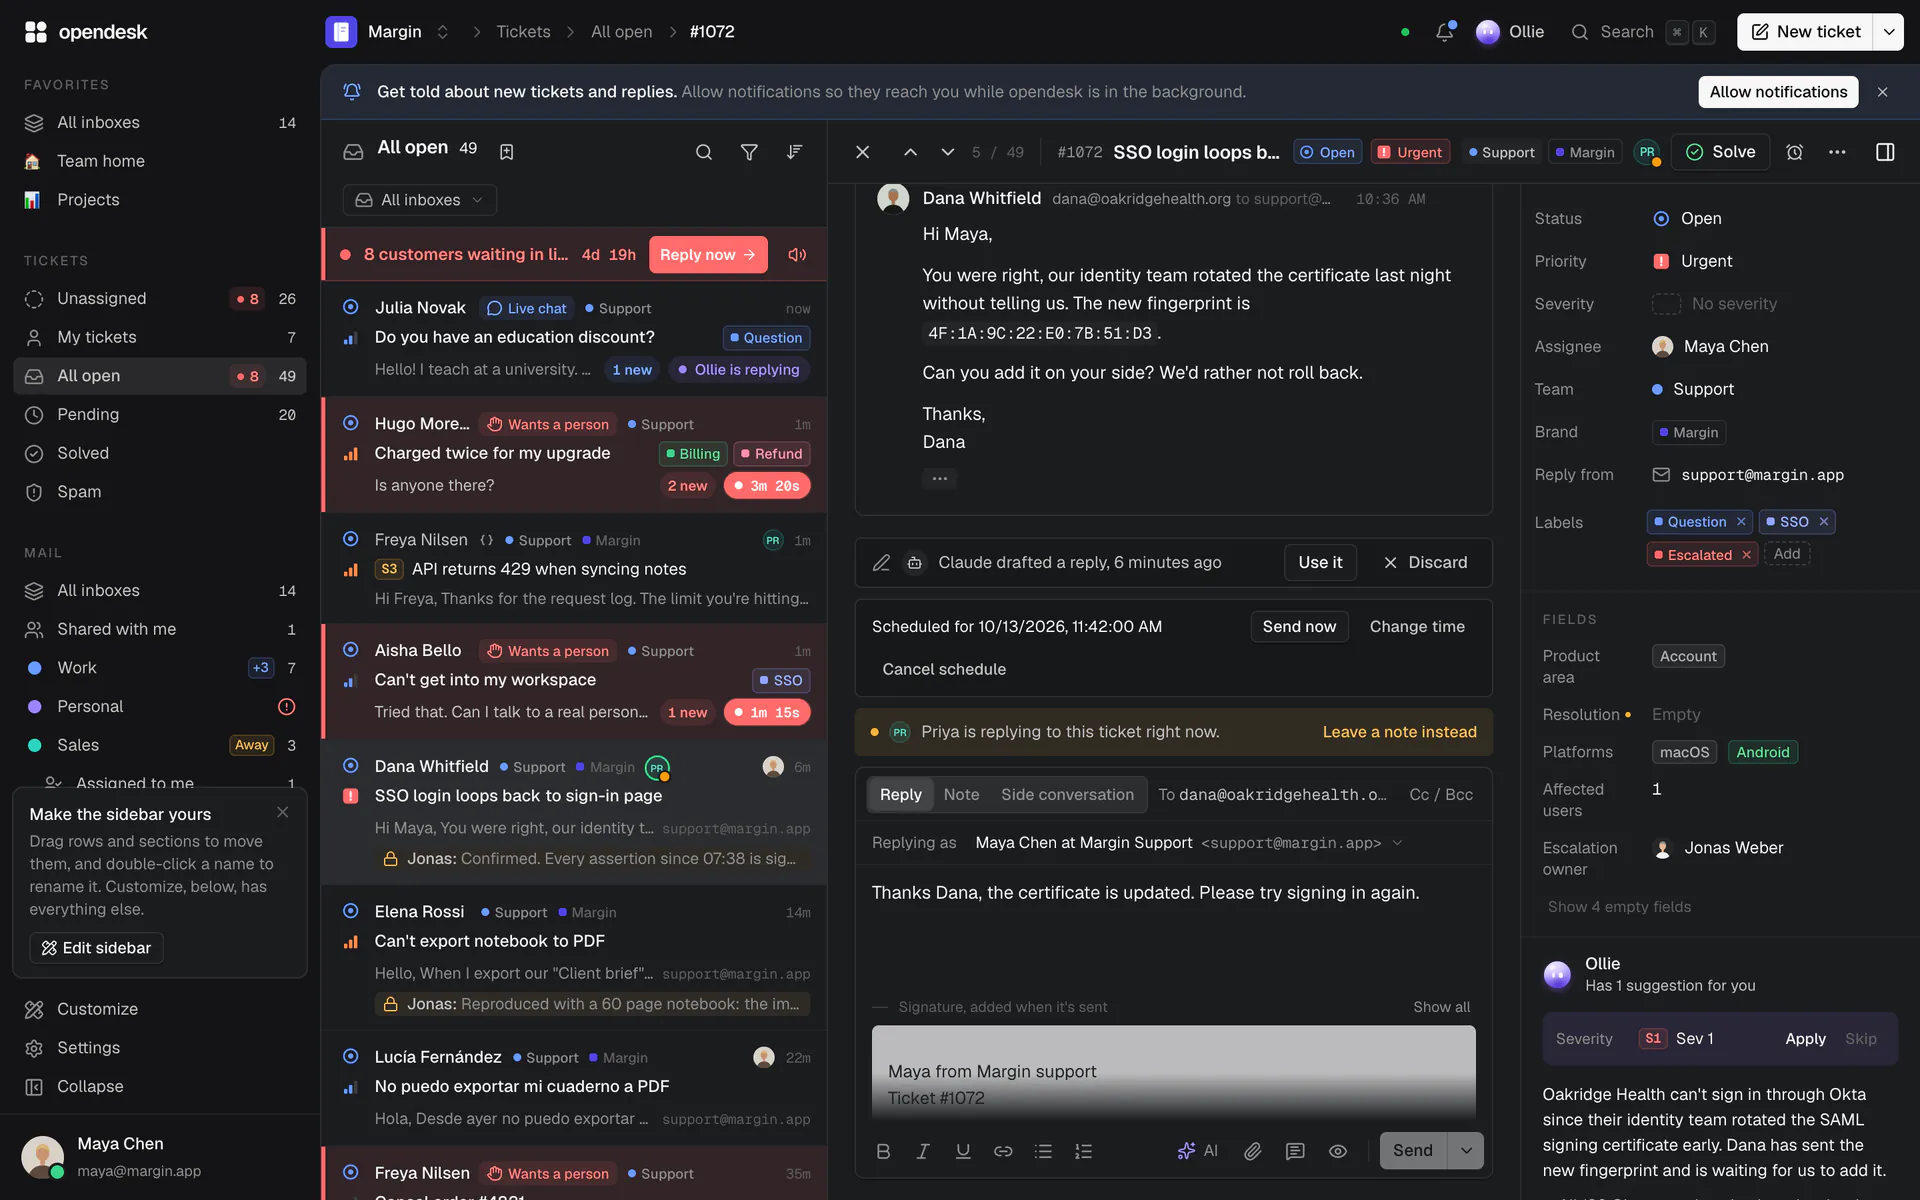
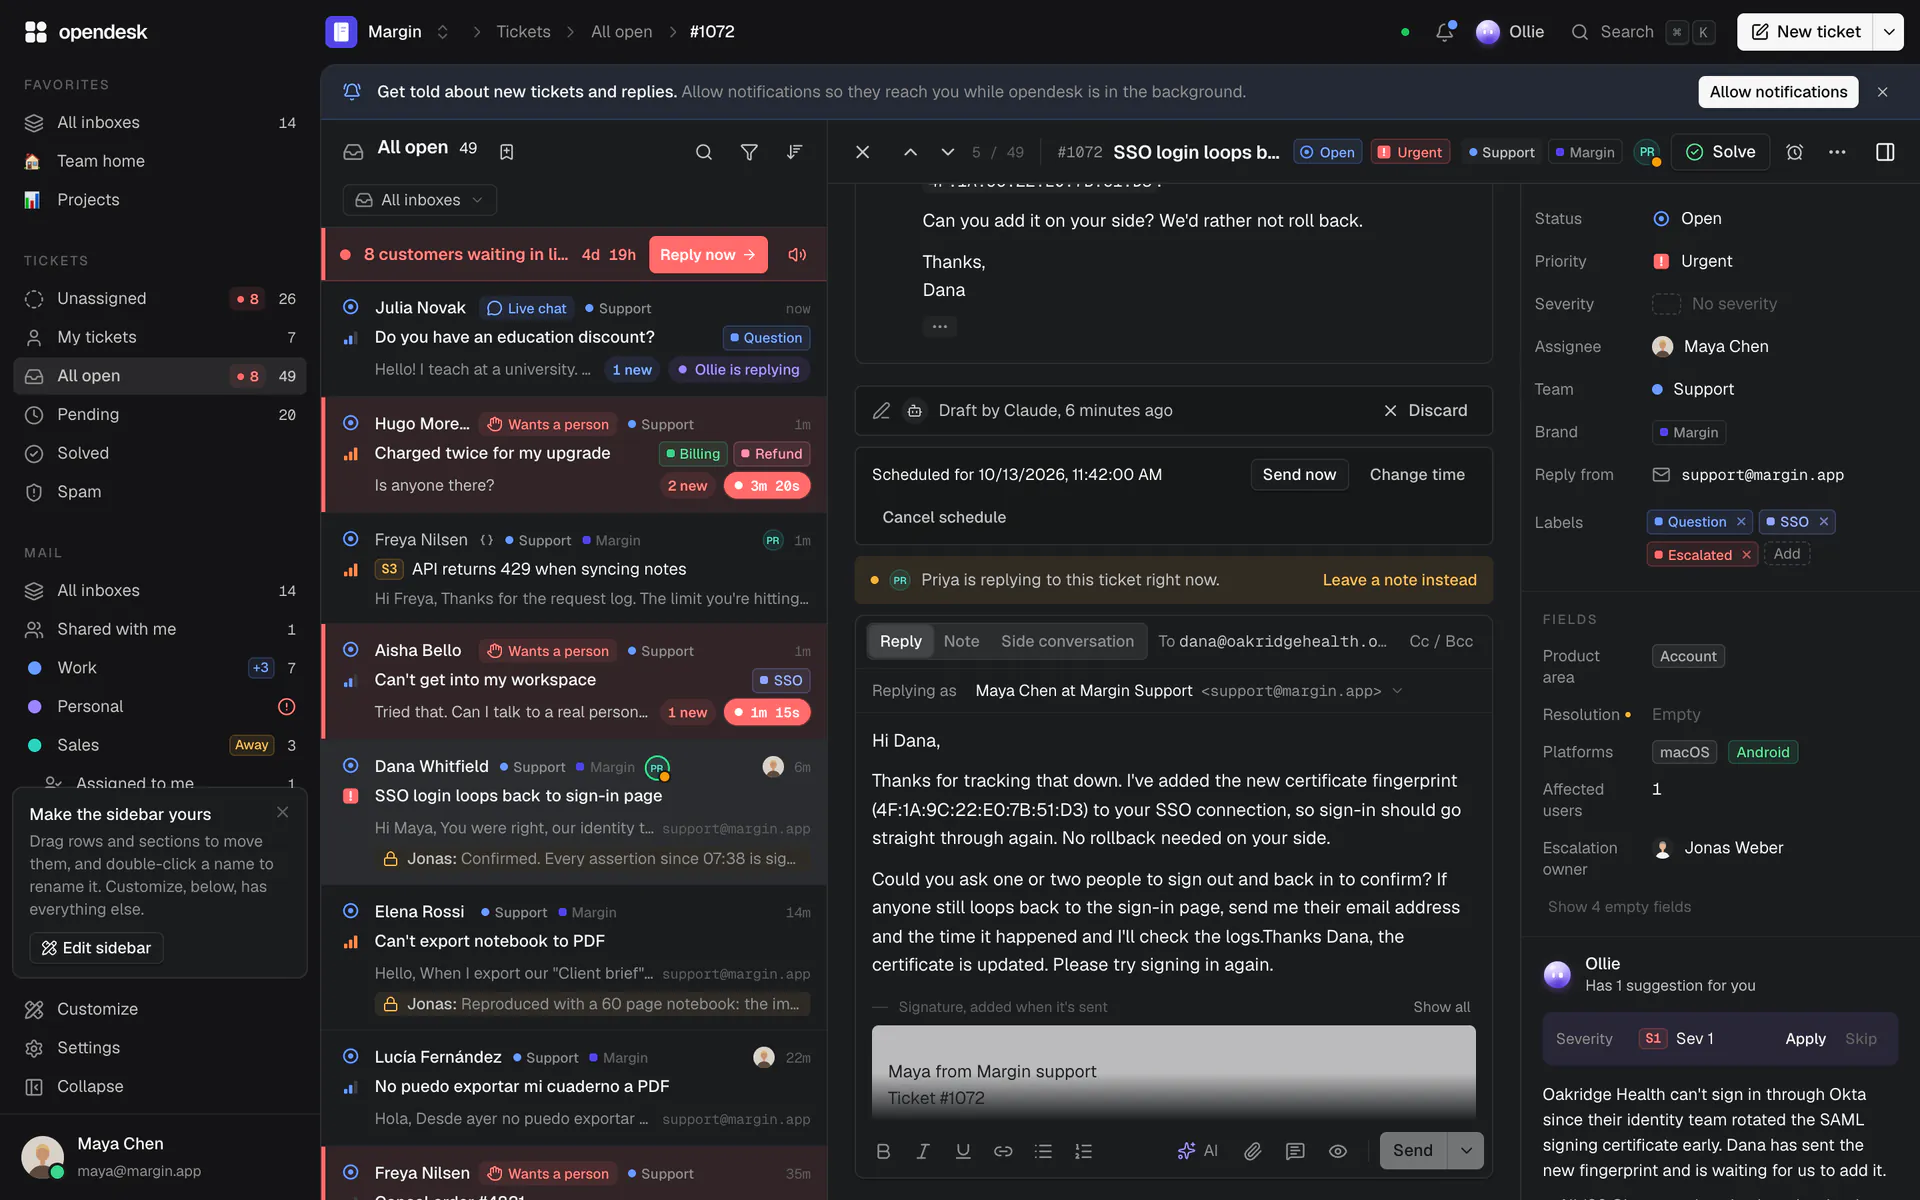
feat: capture scheduled reply guides in both themes and bound refresh timers

diff --git a/web/src/components/tickets/detail/replyDraft.ts b/web/src/components/tickets/detail/replyDraft.ts
@@ -29,7 +29,7 @@ export function useReplyDraftSync({
   attachmentIds: string[];
   onRestore: (draft: ReplyDraft) => void;
 }): { settled: boolean; draft: ReplyDraft | null | undefined } {
-  const { data, isPending, isError } = useQuery({ ...q.replyDraft(ticketId), enabled, refetchInterval: (query) => query.state.data?.schedule ? Math.max(5000, Date.parse(query.state.data.schedule.send_at) - Date.now() + 1000) : false });
+  const { data, isPending, isError } = useQuery({ ...q.replyDraft(ticketId), enabled, refetchInterval: (query) => query.state.data?.schedule ? Math.min(2147483647, Math.max(5000, Date.parse(query.state.data.schedule.send_at) - Date.now() + 1000)) : false });
   const scheduled = useRef(false);
   scheduled.current = !!data?.schedule;
   const settled = !enabled || !isPending || isError;
